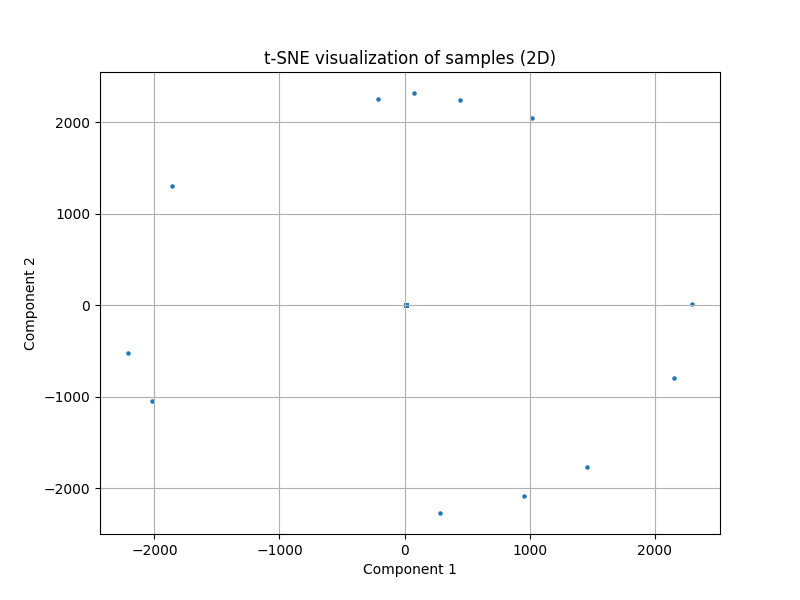
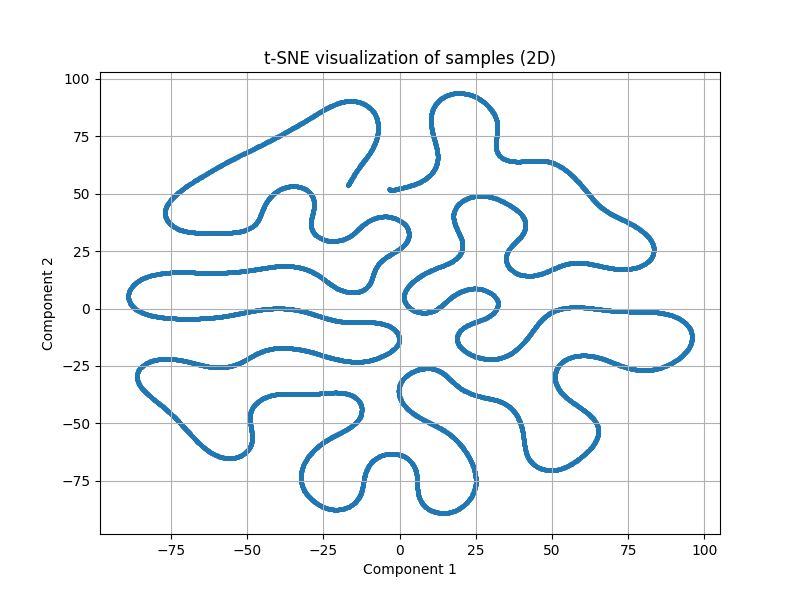
Task 1 corrected

diff --git a/Assignment-4/TASK-0-1/sampling_algos.py b/Assignment-4/TASK-0-1/sampling_algos.py
@@ -4,6 +4,7 @@ import numpy as np
 import matplotlib.pyplot as plt
 # You can import any other torch modules you need below #
 from get_results import EnergyRegressor, FEAT_DIM
+from sklearn.manifold import TSNE
 from time import time
 
 
@@ -21,130 +22,9 @@ if torch.cuda.is_available():
 # --- Define two classes for Algo-1 and Algo-2 ---
 ##################################################
 # Your code for Task-1 goes here
-@torch.no_grad()
-def gen_tsne_plot(samples, dim=2, algo=1):
-    if dim not in [2, 3]:
-        raise ValueError("Dimension must be 2 or 3")
-        
-    # Convert list of tensors to a single tensor and move to CPU
-    samples_tensor = torch.cat(samples, dim=0).cpu().numpy()
-    
-    # Custom t-SNE implementation
-    def compute_pairwise_distances(X):
-        sum_X = np.sum(np.square(X), axis=1)
-        D = np.add(np.add(-2 * np.dot(X, X.T), sum_X).T, sum_X)
-        return D
-    
-    def compute_joint_probabilities(D, perplexity=30.0, epsilon=1e-8):
-        # Calculate joint probabilities p_ij from distances
-        n = D.shape[0]
-        P = np.zeros((n, n))
-        
-        # Binary search for sigma (bandwidth)
-        for i in range(n):
-            beta_min, beta_max = -np.inf, np.inf
-            beta = 1.0
-            
-            # Binary search for beta
-            for _ in range(50):
-                # Compute conditional probabilities with current beta
-                D_i = D[i, np.arange(n) != i]
-                P_i = np.exp(-D_i * beta)
-                sum_P_i = np.sum(P_i)
-                
-                if sum_P_i < epsilon:
-                    beta_min = beta
-                    beta = (beta + beta_max) / 2.0 if beta_max != np.inf else beta * 2
-                else:
-                    H_i = np.log(sum_P_i) + beta * np.sum(D_i * P_i) / sum_P_i
-                    H_diff = H_i - np.log(perplexity)
-                    
-                    if np.abs(H_diff) < 1e-5:
-                        break
-                    
-                    if H_diff > 0:
-                        beta_min = beta
-                        beta = (beta + beta_max) / 2.0 if beta_max != np.inf else beta * 2
-                    else:
-                        beta_max = beta
-                        beta = (beta + beta_min) / 2.0 if beta_min != -np.inf else beta / 2
-                
-                P_i = P_i / sum_P_i
-                P[i, np.arange(n) != i] = P_i
-        
-        # Symmetrize the probabilities
-        P = (P + P.T) / (2*n)
-        P = np.maximum(P, epsilon)
-        return P
-    
-    def custom_tsne(X, n_components=2, perplexity=30.0, n_iter=1000, learning_rate=200.0, random_state=None):
-        # Set random state
-        if random_state is not None:
-            np.random.seed(random_state)
-        
-        n_samples = X.shape[0]
-        
-        # Initialize low-dimensional representation
-        Y = np.random.randn(n_samples, n_components) * 0.0001
-        
-        # Compute pairwise distances and joint probabilities
-        D = compute_pairwise_distances(X)
-        P = compute_joint_probabilities(D, perplexity)
-        
-        # Gradient descent
-        for i in range(n_iter):
-            # Compute pairwise affinities in low-dimensional space
-            sum_Y = np.sum(np.square(Y), axis=1)
-            num = -2.0 * np.dot(Y, Y.T)
-            num = 1.0 / (1.0 + np.add(np.add(num, sum_Y).T, sum_Y))
-            np.fill_diagonal(num, 0)
-            Q = num / np.sum(num)
-            Q = np.maximum(Q, 1e-12)
-            
-            # Compute gradient
-            PQ_diff = P - Q
-            grad = np.zeros((n_samples, n_components))
-            for j in range(n_samples):
-                grad[j] = 4.0 * np.sum(np.tile(PQ_diff[:, j] * num[:, j], (n_components, 1)).T * (Y[j] - Y), axis=0)
-            
-            # Update Y
-            Y = Y - learning_rate * grad
-            
-            # Center Y
-            Y = Y - np.mean(Y, axis=0)
-            
-            if (i + 1) % 100 == 0:
-                print(f"t-SNE iteration {i + 1}/{n_iter}")
-        
-        return Y
-    
-    # Apply custom t-SNE
-    samples_nd = custom_tsne(samples_tensor, n_components=dim, perplexity=30, 
-                             n_iter=1000, random_state=SEED)
-    
-    # Plotting
-    if dim == 2:
-        plt.figure(figsize=(8, 6))
-        plt.scatter(samples_nd[:, 0], samples_nd[:, 1], s=5)
-        plt.title('Custom t-SNE visualization of samples (2D)')
-        plt.xlabel('Component 1')
-        plt.ylabel('Component 2')
-        plt.grid(True)
-        plt.savefig(f'tsne_plot_custom_2d_{algo}.png')
-    else:  # dim == 3
-        fig = plt.figure(figsize=(10, 8))
-        ax = fig.add_subplot(111, projection='3d')
-        ax.scatter(samples_nd[:, 0], samples_nd[:, 1], samples_nd[:, 2], s=5)
-        ax.set_title('Custom t-SNE visualization of samples (3D)')
-        ax.set_xlabel('Component 1')
-        ax.set_ylabel('Component 2')
-        ax.set_zlabel('Component 3')
-        plt.savefig(f'tsne_plot_custom_3d_{algo}.png')
 
 @torch.no_grad()
-def gen_tsne_plot_sklearn(samples, dim=2, algo=1):
-    from sklearn.manifold import TSNE
-    
+def gen_tsne_plot_sklearn(samples, dim=2, algo=1):    
     if dim not in [2, 3]:
         raise ValueError("Dimension must be 2 or 3")
     
@@ -186,27 +66,24 @@ class Algo1_Sampler:
         samples = [X0]
 
         start_time = time()
-        count = 0
         for i in range(self.N):
             if (i + 1) % 100 == 0:
                 print(f"Iteration {i + 1}/{self.N}")
             X_prev = samples[-1].detach().requires_grad_(True)
             energy = self.model(X_prev)
             grad = torch.autograd.grad(energy, X_prev)[0]
-            X_prop = X_prev - self.tau * grad + torch.sqrt(self.tau) * torch.randn_like(X_prev)
+            X_prop = X_prev - self.tau/2 * grad + torch.sqrt(self.tau) * torch.randn_like(X_prev)
             energy_prop = self.model(X_prop)
             grad_prop = torch.autograd.grad(energy_prop, X_prop)[0]
             log_q_X_prev_X_prop = -(torch.norm(X_prev - X_prop + grad_prop * self.tau / 2) ** 2) / (4 * self.tau)
             log_q_X_prop_X_prev = -(torch.norm(X_prop - X_prev + grad * self.tau / 2) ** 2) / (4 * self.tau)
-            log_acceptance_ratio = min(1, torch.exp(energy - energy_prop + log_q_X_prev_X_prop - log_q_X_prop_X_prev))
-            if torch.rand(1).item() < log_acceptance_ratio:
+            acceptance_ratio = torch.minimum(torch.tensor(1.0), torch.exp(energy - energy_prop + log_q_X_prev_X_prop - log_q_X_prop_X_prev))
+            if torch.rand(1).item() < acceptance_ratio:
                 samples.append(X_prop)
-                count += 1
             else:
                 samples.append(X_prev)
         
         end_time = time()
-        print(f"Accepted {count} out of {self.N} proposals.")
         return samples[self.burn_in+1:], end_time - start_time
 
 class Algo2_Sampler:
@@ -248,15 +125,11 @@ if __name__ == "__main__":
     algo1 = Algo1_Sampler(model, N, burn_in, tau)
     samples, time_diff = algo1.sample()
     print(f"Sampling time 1: {time_diff:.2f} seconds")
-    # gen_tsne_plot(samples, dim=2, algo=1)
-    # gen_tsne_plot(samples, dim=3)
     gen_tsne_plot_sklearn(samples, dim=2, algo=1)
     gen_tsne_plot_sklearn(samples, dim=3, algo=1)
 
     algo2 = Algo2_Sampler(model, N, burn_in, tau)
     samples, time_diff = algo2.sample()
     print(f"Sampling time 2: {time_diff:.2f} seconds")
-    # gen_tsne_plot(samples, dim=2)
-    # gen_tsne_plot(samples, dim=3)
     gen_tsne_plot_sklearn(samples, dim=2, algo=2)
     gen_tsne_plot_sklearn(samples, dim=3, algo=2)
